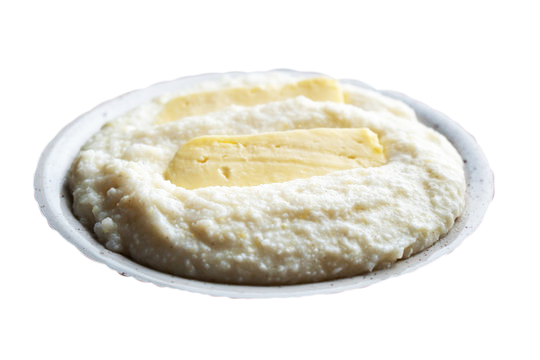
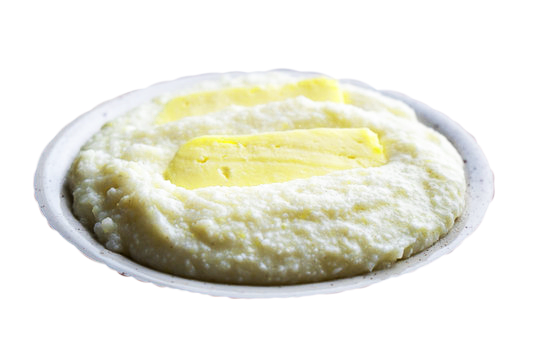
Update

diff --git a/index.html b/index.html
@@ -122,6 +122,14 @@
         <p class="NFCNum">6000000 clicks</p><img src="NFC.png" alt="" class="NFC">
       </div>
     </div>
+    <div class="D1">
+      <div class="D2">
+        <p class="ELANum">200000 clicks</p><img src="Elarji.png" alt="" class="Elarji">
+      </div>
+      <div class="D2">
+        <p class="OSTNum">600000 clicks</p><img src="Ostri.png" alt="" class="Ostri">
+      </div>
+    </div>
     <br>
     <div class="D1 "> <button class="Back">Back</button></div>
     <br>
@@ -143,10 +151,12 @@
     const Sushi = document.querySelector(".Sushi")
     const Fries = document.querySelector(".Fries")
     const FriesN = document.querySelector(".FRINum")
-    const Steak = document.querySelector(".Mtsvadi")
-    const SteakN = document.querySelector(".MTSNum")
     const Ghuda = document.querySelector(".Ghuda")
     const GhudaN = document.querySelector(".GHUNum")
+    const Ostri = document.querySelector(".Ostri")
+    const OstriN = document.querySelector(".OSTNum")
+    const Elarji = document.querySelector(".Elarji")
+    const ElarjiN = document.querySelector(".ELANum")
     const Candy = document.querySelector(".Candy")
     const Cookie = document.querySelector(".Cookies")
     const CandyN = document.querySelector(".CADNum")
@@ -396,6 +406,25 @@
         CurImg = "Khinkali.png"
       }
     })
+    Elarji.addEventListener("click", function () {
+      if (Number(clicks) > 200000) {
+        ElarjiN.innerHTML = "Elarji"
+        CurImg = "Elarji.png"
+      }
+      else {
+        ElarjiN.innerHTML = "200000 clicks"
+        CurImg = "Khinkali.png"
+      }
+    })
+     Ostri.addEventListener("click", function () {
+      if (Number(clicks) > 600000) {
+        OstriN.innerHTML = "Ostri"
+        CurImg = "Ostri.png"
+      }
+      else {
+        OstriN.innerHTML = "600000 clicks"
+        CurImg = "Khinkali.png"
+      }})
     Khinkali.addEventListener("click", function () {
       CurImg = "Khinkali.png"
       KhinkaliN.innerHTML = "Khinkali"
@@ -626,6 +655,28 @@
           title.innerHTML = "N.F.C clicker"
           DOCT.innerHTML = "N.F.C clicker"
           Logo.href = "NFC.png"
+          input.value = ""
+          break;
+        case "Elarji.png":
+          img.src = "Elarji.png"
+          title.style.fontSize = "40px"
+          img.style.width = "150px"
+          img.style.height = "100px"
+          p2.style.fontSize = "25px"
+          title.innerHTML = "Elarji clicker"
+          DOCT.innerHTML = "Elarji clicker"
+          Logo.href = "Elarji.png"
+          input.value = ""
+          break;
+        case "Ostri.png":
+          img.src = "Ostri.png"
+          title.style.fontSize = "40px"
+          img.style.width = "150px"
+          img.style.height = "100px"
+          p2.style.fontSize = "25px"
+          title.innerHTML = "Ostri clicker"
+          DOCT.innerHTML = "Ostri clicker"
+          Logo.href = "Ostri.png"
           input.value = ""
           break;
       }
@@ -936,6 +987,16 @@
     .Shawarma {
       width: 230px;
       height: 150px;
+    }
+
+    .Elarji {
+      width: 150px;
+      height: 100px;
+    }
+
+    .Ostri {
+      width: 150px;
+      height: 100px;
     }
 
     .Salad {
